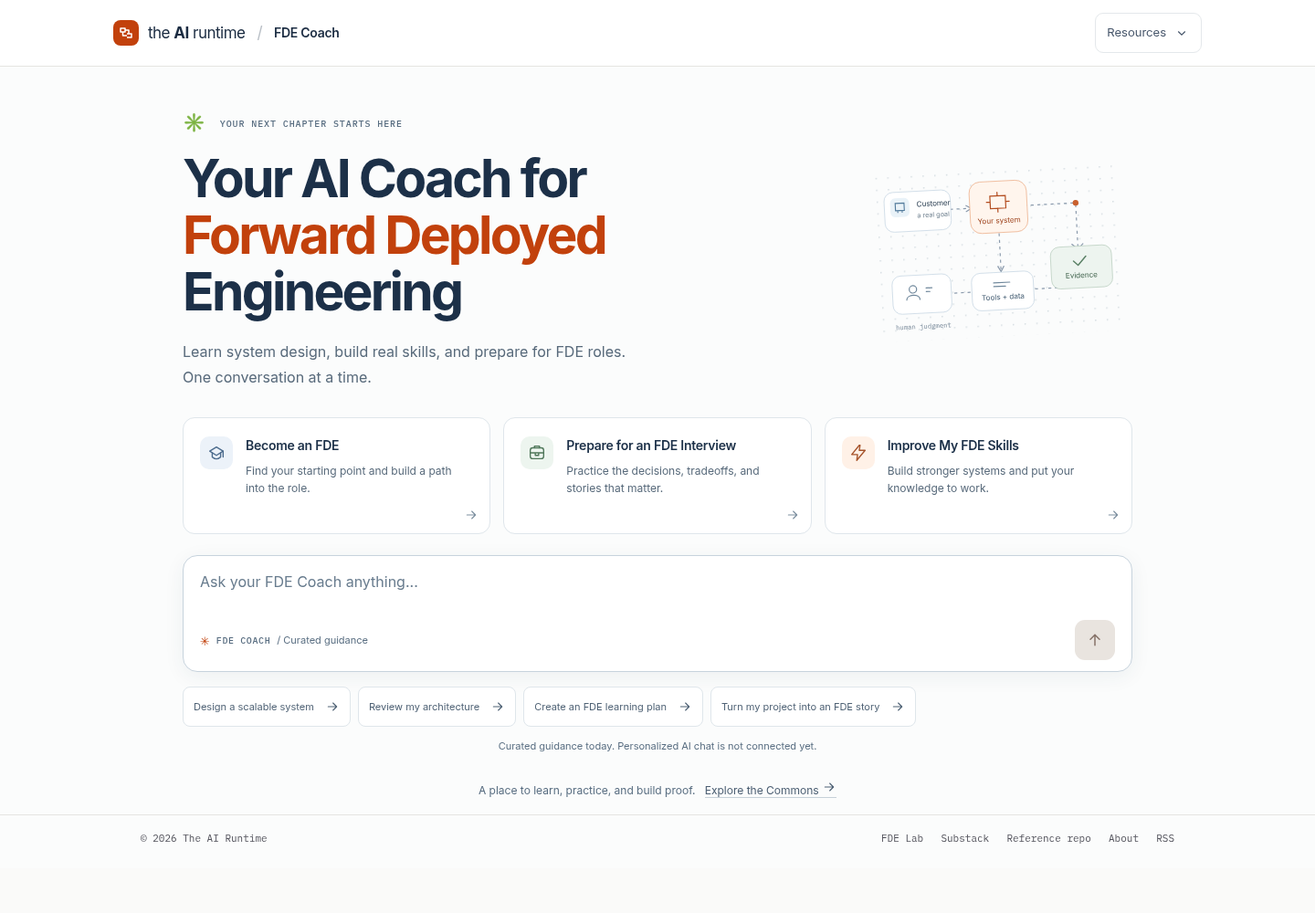
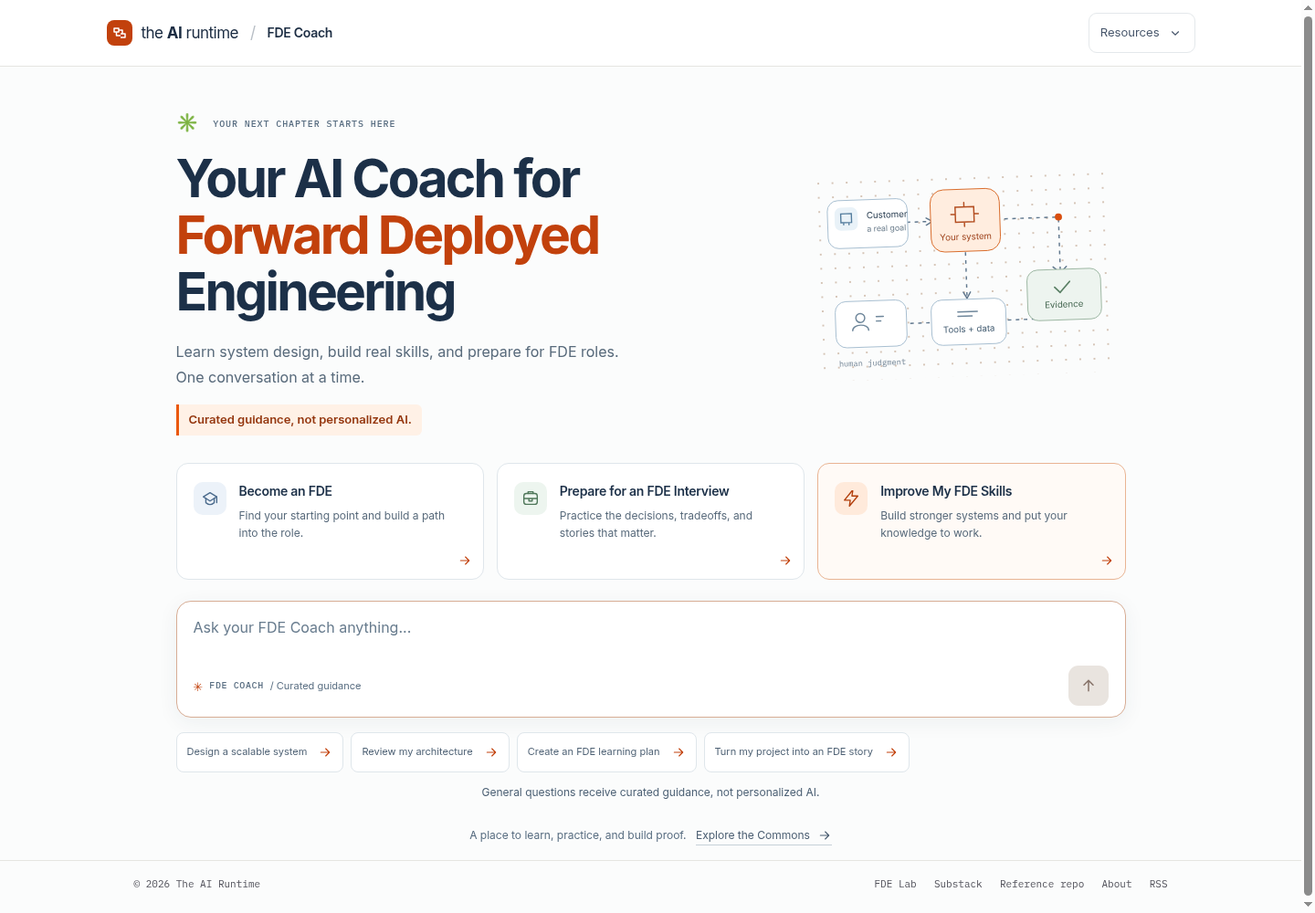
Polish Coach visuals, clarify curated guidance, and document security integration

diff --git a/learn/src/components/fde-coach/fde-coach.css b/learn/src/components/fde-coach/fde-coach.css
@@ -1,5 +1,5 @@
 /* Scoped to the approved Coach surface. Existing curriculum tokens stay intact. */
-.fde-coach{--ink:#1c3048;--muted:#586a7b;--rule:#dfe6eb;--orange:var(--accent,#c2410c);width:100%;max-width:1088px;margin:0 auto;padding:46px 24px 16px;color:var(--ink);font-size:15px;line-height:1.7}
+.fde-coach{--ink:#1c3048;--muted:#586a7b;--rule:#dfe6eb;--orange:#c2410c;width:100%;max-width:1088px;margin:0 auto;padding:46px 24px 16px;color:var(--ink);font-size:15px;line-height:1.7}
 .fde-coach button,.fde-coach textarea{font:inherit}
 .fde-coach button{cursor:pointer}
 .fde-coach button:disabled{cursor:not-allowed}
@@ -7,22 +7,22 @@
 .fde-coach a{color:var(--orange)}
 .fde-kicker{font-family:var(--font-mono);font-size:10px;letter-spacing:.09em;line-height:1.5;font-weight:500;margin:0;color:#586d81}
 .fde-spark{color:var(--orange);font-family:var(--font-body);font-size:20px;vertical-align:-2px;margin-right:8px}
-.fde-welcome{display:grid;grid-template-columns:minmax(0,1fr) 290px;align-items:center;gap:40px;margin-bottom:30px}
+.fde-welcome{display:grid;grid-template-columns:minmax(0,1fr) 350px;align-items:center;gap:28px;margin-bottom:30px}
 .fde-welcome h1{font-size:clamp(36px,4.2vw,57px);line-height:1.09;letter-spacing:-.048em;font-weight:700;margin:16px 0 20px;color:var(--ink);max-width:660px;text-wrap:initial}
 .fde-welcome h1 span{color:var(--orange);display:block}
 .fde-intro{font-size:16px;line-height:1.75;max-width:520px;margin:0;color:var(--muted)}
-.fde-illustration{width:100%;height:auto;max-width:340px;transform:rotate(-3deg);justify-self:end}
+.fde-illustration{width:100%;height:auto;max-width:360px;transform:rotate(-2deg);justify-self:end}
 .fde-starters{display:grid;grid-template-columns:repeat(3,minmax(0,1fr));gap:14px;margin-bottom:23px}
 .fde-starter{position:relative;display:grid;grid-template-columns:38px minmax(0,1fr);gap:12px;text-align:left;background:#fff;border:1px solid var(--rule);padding:20px 18px 18px;border-radius:13px;color:var(--ink);transition:border-color .16s,transform .16s,box-shadow .16s;min-height:128px}
-.fde-starter:hover{border-color:#c58c6e;transform:translateY(-2px);box-shadow:0 6px 18px #23374b09}
+.fde-starter:hover{border-color:#d66a32;transform:translateY(-2px);box-shadow:0 6px 18px #23374b09}
 .fde-starter__icon{height:36px;width:36px;display:grid;place-items:center;border-radius:10px;background:#ecf2f9;color:#4b6b8d}
 .fde-starter--green .fde-starter__icon{background:#edf5ef;color:#4f775a}
-.fde-starter--orange .fde-starter__icon{background:#fff1e7;color:#a6532b}
+.fde-starter--orange .fde-starter__icon{background:#ffeadb;color:#b23e0b}
 .fde-starter strong{display:block;color:var(--ink);font-size:14px;font-weight:600;line-height:1.45;letter-spacing:-.018em;padding-right:4px}
 .fde-starter__description{display:block;color:var(--muted);font-size:12px;line-height:1.6;margin-top:7px;padding-right:4px}
-.fde-starter__arrow{position:absolute;right:12px;bottom:12px;color:#7c8f9f;display:flex}
+.fde-starter__arrow{position:absolute;right:12px;bottom:12px;color:#c2410c;display:flex}
 .fde-compose-area{position:relative;min-width:0}
-.fde-composer{background:#fff;border:1px solid #c7d3dd;border-radius:16px;padding:16px 18px 12px;box-shadow:0 5px 22px #273e5310;transition:border-color .16s,box-shadow .16s}
+.fde-composer{background:#fff;border:1px solid #d7ad95;border-radius:16px;padding:16px 18px 12px;box-shadow:0 5px 22px #273e5310;transition:border-color .16s,box-shadow .16s}
 .fde-composer:focus-within{outline:2px solid var(--orange);outline-offset:2px;border-color:#c06c42;box-shadow:0 0 0 3px #c2410c0b,0 6px 22px #273e530a}
 .fde-composer textarea{width:100%;display:block;min-height:49px;max-height:160px;resize:none;overflow-y:auto;background:none;border:0;border-radius:0;color:var(--ink);padding:0;line-height:1.55;font-size:16px;outline:none;box-sizing:border-box}
 .fde-composer textarea:focus-visible{outline:none}
@@ -38,10 +38,10 @@
 .fde-prompts,.fde-followups{display:flex;flex-wrap:wrap;gap:8px;margin-top:16px}
 .fde-prompts button,.fde-followups button{border:1px solid var(--rule);background:#fff;border-radius:8px;min-height:36px;padding:8px 11px;display:inline-flex;align-items:center;gap:12px;color:#4f6275;font-size:11px;line-height:1.4;text-align:left;transition:background .15s,border-color .15s}
 .fde-prompts button:hover,.fde-followups button:hover{background:#fff6ef;border-color:#d4a78f;color:#8a3915}
-.fde-prompts button span{color:#7f91a1}
-.fde-help{text-align:center;color:#586d81;font-size:11px;line-height:1.5;margin:13px 0 0;overflow-wrap:anywhere}
+.fde-prompts button svg{color:var(--orange);flex:none}
+.fde-help{text-align:center;color:#4d6175;font-size:12px;line-height:1.5;margin:13px 0 0;overflow-wrap:anywhere}
 .fde-welcome__foot{font-size:12px;text-align:center;margin:28px 0 0;color:#586d81}
-.fde-welcome__foot a{margin-left:7px;color:#4b5e72;text-decoration:none;border-bottom:1px solid #c6d0d8}
+.fde-welcome__foot a{display:inline-flex;align-items:center;gap:8px;margin-left:7px;color:#4b5e72;text-decoration:none;border-bottom:1px solid #c6d0d8}
 .fde-sr-only{position:absolute;width:1px;height:1px;padding:0;margin:-1px;overflow:hidden;clip:rect(0,0,0,0);white-space:nowrap;border:0}
 /* A single scrolling transcript above a stable, safe-area-aware composer. */
 .fde-coach--active{height:var(--coach-height,calc(100dvh - 72px));padding-top:17px;padding-bottom:max(14px,env(safe-area-inset-bottom));display:grid;grid-template-rows:auto minmax(0,1fr) auto;min-height:0;max-width:920px}
@@ -73,7 +73,7 @@
 .fde-coach--active .fde-compose-area{padding-top:12px;border-top:1px solid var(--rule)}
 .fde-coach--active .fde-composer{padding:12px 15px 10px;border-radius:13px;box-shadow:0 2px 14px #263c4c06}
 .fde-coach--active .fde-composer textarea{min-height:38px}
-.fde-coach--active .fde-help{font-size:10px;margin-top:8px}
+.fde-coach--active .fde-help{font-size:12px;margin-top:8px}
 .fde-coach--active .fde-followups{margin-top:9px;gap:7px}
 .fde-followups button{min-height:34px;font-size:10px;padding:6px 9px}
 .fde-status{font:400 12px var(--font-body);margin:0 0 10px;color:#5b6c7e}
@@ -99,8 +99,8 @@
 .fde-completed{display:flex;align-items:center;justify-content:space-between;gap:10px;flex-wrap:wrap;font-size:12px;color:#4e6577}
 .fde-completed button{display:flex;align-items:center;gap:8px;min-height:44px;border:1px solid var(--rule);border-radius:8px;padding:8px 12px;background:#fff;color:#a03c13;font-size:12px}
 @media(max-width:900px){.fde-welcome{grid-template-columns:minmax(0,1fr) 210px;gap:15px}.fde-coach{padding-top:32px}.fde-starter{grid-template-columns:1fr;padding:16px}.fde-starter__icon{margin-bottom:2px}.fde-starter strong{font-size:13px}.fde-coach--active{padding-top:15px}}
-@media(max-width:620px){.fde-coach{padding:25px 16px 15px;font-size:14px}.fde-welcome{display:block;margin-bottom:23px}.fde-welcome h1{font-size:37px;max-width:440px;margin:14px 0 15px;letter-spacing:-.052em}.fde-illustration{display:none}.fde-kicker{font-size:9px}.fde-intro{font-size:14px;line-height:1.7;max-width:380px}.fde-starters{grid-template-columns:1fr;gap:9px;margin-bottom:18px}.fde-starter{grid-template-columns:32px minmax(0,1fr) 12px;min-height:72px;gap:12px;padding:12px 13px;align-items:center;border-radius:10px}.fde-starter__icon{width:32px;height:32px;border-radius:9px;margin:0}.fde-starter strong{font-size:13px;line-height:1.4}.fde-starter__description{font-size:11px;margin-top:3px;line-height:1.5}.fde-starter__arrow{position:static;align-self:center}.fde-composer{padding:13px 14px 10px;border-radius:12px}.fde-composer textarea{font-size:16px;min-height:45px}.fde-composer__mode{font-size:10px}.fde-composer__label{font-size:9px}.fde-prompts{gap:7px;margin-top:12px;display:grid;grid-template-columns:repeat(2,minmax(0,1fr))}.fde-prompts button{font-size:10px;padding:8px;gap:5px;justify-content:space-between;min-height:40px}.fde-help{font-size:10px;margin-top:10px}.fde-welcome__foot{font-size:11px;line-height:1.8;margin-top:20px}.fde-coach--active{padding:12px 13px max(9px,env(safe-area-inset-bottom));height:var(--coach-height,calc(100dvh - 64px))}.fde-context{gap:10px;padding-bottom:11px}.fde-context h1{font-size:12px;line-height:1.5}.fde-context .fde-kicker{font-size:8px}.fde-reset{padding:7px;min-width:40px;justify-content:center}.fde-reset span:last-child{display:none}.fde-transcript{padding-top:18px;scrollbar-gutter:auto}.fde-turn{grid-template-columns:26px minmax(0,1fr);gap:9px;margin-bottom:23px}.fde-turn__avatar{width:26px;height:26px;border-radius:8px}.fde-turn__avatar svg{width:18px;height:18px}.fde-turn__who{font-size:11px!important;gap:7px}.fde-turn__who span{font-size:8px}.fde-turn__body h2{font-size:18px}.fde-turn__body>p:not(.fde-turn__who),.fde-lesson-part>p{font-size:13px;line-height:1.8;margin-bottom:12px}.fde-turn--learner .fde-message-text{padding:9px 12px}.fde-resource-list a{font-size:12px}.fde-resource-list li>span{font-size:11px}.fde-lesson-link{font-size:11px!important;padding:10px;gap:8px}.fde-coach--active .fde-compose-area{padding-top:9px}.fde-coach--active .fde-composer{padding:10px 12px 8px}.fde-coach--active .fde-followups{flex-wrap:nowrap;overflow-x:auto;padding:2px 1px 4px}.fde-followups button{white-space:nowrap;flex-shrink:0;font-size:10px;min-height:36px}.fde-summary{padding:16px}.fde-summary h2{font-size:21px}}
-@media(max-width:370px){.fde-welcome h1{font-size:34px}.fde-intro{font-size:13px}.fde-coach{padding-left:14px;padding-right:14px}.fde-starter strong{font-size:12px}.fde-starter__description{font-size:10.5px}.fde-composer__mode{font-size:9px}}
+@media(max-width:620px){.fde-coach{padding:25px 16px 15px;font-size:14px}.fde-welcome{display:block;margin-bottom:23px}.fde-welcome h1{font-size:37px;max-width:440px;margin:14px 0 15px;letter-spacing:-.052em}.fde-illustration{display:none}.fde-kicker{font-size:9px}.fde-intro{font-size:15px;line-height:1.7;max-width:380px}.fde-starters{grid-template-columns:1fr;gap:9px;margin-bottom:18px}.fde-starter{grid-template-columns:32px minmax(0,1fr) 12px;min-height:72px;gap:12px;padding:12px 13px;align-items:center;border-radius:10px}.fde-starter__icon{width:32px;height:32px;border-radius:9px;margin:0}.fde-starter strong{font-size:14px;line-height:1.4}.fde-starter__description{font-size:12.5px;margin-top:3px;line-height:1.5}.fde-starter__arrow{position:static;align-self:center}.fde-composer{padding:13px 14px 10px;border-radius:12px}.fde-composer textarea{font-size:16px;min-height:45px}.fde-composer__mode{font-size:10px}.fde-composer__label{font-size:9px}.fde-prompts{gap:7px;margin-top:12px;display:grid;grid-template-columns:repeat(2,minmax(0,1fr))}.fde-prompts button{font-size:12px;padding:8px;gap:5px;justify-content:space-between;min-height:40px}.fde-help{font-size:13px;margin-top:10px}.fde-welcome__foot{font-size:11px;line-height:1.8;margin-top:20px}.fde-coach--active{padding:12px 13px max(9px,env(safe-area-inset-bottom));height:var(--coach-height,calc(100dvh - 64px))}.fde-context{gap:10px;padding-bottom:11px}.fde-context h1{font-size:14px;line-height:1.5}.fde-context .fde-kicker{font-size:8px}.fde-reset{padding:7px;min-width:44px;justify-content:center}.fde-reset span:last-child{display:none}.fde-transcript{padding-top:18px;scrollbar-gutter:auto}.fde-turn{grid-template-columns:26px minmax(0,1fr);gap:9px;margin-bottom:23px}.fde-turn__avatar{width:26px;height:26px;border-radius:8px}.fde-turn__avatar svg{width:18px;height:18px}.fde-turn__who{font-size:13px!important;gap:7px}.fde-turn__who span{font-size:10px}.fde-turn__body h2{font-size:18px}.fde-turn__body>p:not(.fde-turn__who),.fde-lesson-part>p{font-size:15px;line-height:1.8;margin-bottom:12px}.fde-turn--learner .fde-message-text{padding:9px 12px}.fde-resource-list a{font-size:14px}.fde-resource-list li>span{font-size:13px}.fde-lesson-link{font-size:13px!important;padding:10px;gap:8px}.fde-coach--active .fde-compose-area{padding-top:9px}.fde-coach--active .fde-composer{padding:10px 12px 8px}.fde-coach--active .fde-followups{flex-wrap:nowrap;overflow-x:auto;padding:2px 1px 4px}.fde-followups button{white-space:nowrap;flex-shrink:0;font-size:12px;min-height:36px}.fde-summary{padding:16px}.fde-summary h2{font-size:21px}}
+@media(max-width:370px){.fde-welcome h1{font-size:34px}.fde-intro{font-size:15px}.fde-coach{padding-left:14px;padding-right:14px}.fde-starter strong{font-size:14px}.fde-starter__description{font-size:12.5px}.fde-composer__mode{font-size:9px}}
 @media(prefers-reduced-motion:no-preference){.fde-coach--active .fde-context{animation:fde-enter .24s ease-out}.fde-turn{animation:fde-enter .22s ease-out}@keyframes fde-enter{from{opacity:0;transform:translateY(6px)}to{opacity:1;transform:translateY(0)}}}
 @media(prefers-reduced-motion:reduce){.fde-coach *{scroll-behavior:auto!important;animation:none!important;transition:none!important}}
 
@@ -109,3 +109,9 @@
 .fde-send{min-width:44px}
 .fde-resource-list a{min-height:32px}
 @media(max-width:620px){.fde-resource-list a{min-height:44px}.fde-coach--active .fde-followups{display:grid;grid-template-columns:repeat(2,minmax(0,1fr));overflow:visible;flex-wrap:wrap}.fde-followups button{white-space:normal;min-height:44px;justify-content:space-between}.fde-prompts button{min-height:44px}}
+
+/* Keep the capability boundary visible before any welcome-screen action. */
+.fde-mode-notice{display:inline-block;margin:16px 0 0;padding:7px 11px;border-left:3px solid #ea580c;border-radius:0 6px 6px 0;background:#fff1e6;color:#94360e;font-size:13px;line-height:1.5;font-weight:600}
+.fde-starter--orange{border-color:#e9b493;background:#fffaf6}
+.fde-transcript:focus-visible{outline:2px solid var(--orange);outline-offset:-2px}
+@media(max-width:620px){.fde-mode-notice{font-size:12.5px;margin-top:12px;padding:6px 9px}.fde-coach--active .fde-help{font-size:13px}.fde-error,.fde-disclosure{font-size:13px}.fde-error button,.fde-error a{min-height:44px;display:inline-flex;align-items:center}.fde-welcome{margin-bottom:18px}.fde-coach--welcome{padding-top:20px}}

diff --git a/learn/src/components/fde-coach/FdeCoach.tsx b/learn/src/components/fde-coach/FdeCoach.tsx
@@ -140,7 +140,7 @@ export default function FdeCoach() {
     {!active ? <>
       <div className="fde-welcome"><div className="fde-welcome__copy"><p className="fde-kicker"><span className="fde-spark" aria-hidden="true">✳</span> YOUR NEXT CHAPTER STARTS HERE</p>
         <h1>Your AI Coach for <span>Forward Deployed</span> Engineering</h1>
-        <p className="fde-intro">Learn system design, build real skills, and prepare for FDE roles. One conversation at a time.</p></div><SystemIllustration/></div>
+        <p className="fde-intro">Learn system design, build real skills, and prepare for FDE roles. One conversation at a time.</p><p className="fde-mode-notice" id="fde-guidance-notice">Curated guidance, not personalized AI.</p></div><SystemIllustration/></div>
       <div className="fde-starters" aria-label="Choose your starting point">{starters.map(item => <button type="button" className={`fde-starter fde-starter--${item.tone}`} key={item.id} onClick={() => choose(item.id)}>
         <span className="fde-starter__icon"><GoalIcon kind={item.id}/></span><span><strong>{item.title}</strong><span className="fde-starter__description">{item.description}</span></span><span className="fde-starter__arrow"><Arrow small/></span></button>)}</div>
     </> : <>
@@ -168,7 +168,7 @@ export default function FdeCoach() {
       {scripted && mode === "lesson" && !done ? <p className="fde-disclosure">The written lesson is active. Replies follow the authored material rather than your exact wording.</p> : null}
       {!done ? <form className="fde-composer" onSubmit={event => { event.preventDefault(); submit(); }}>
         <label className="fde-sr-only" htmlFor="fde-message">{mode === "lesson" ? "Your answer to the lesson" : "Ask your FDE Coach"}</label>
-        <textarea id="fde-message" ref={input} rows={2} maxLength={2000} value={draft} readOnly={busy || Boolean(pending)} aria-describedby={error ? "fde-input-help fde-request-error" : "fde-input-help"}
+        <textarea id="fde-message" ref={input} rows={2} maxLength={2000} value={draft} readOnly={busy || Boolean(pending)} aria-describedby={["fde-input-help", !active && "fde-guidance-notice", error && "fde-request-error"].filter(Boolean).join(" ")}
           placeholder={mode === "lesson" ? "Answer the current lesson question..." : "Ask your FDE Coach anything..."}
           onChange={event => setDraft(event.currentTarget.value)} onCompositionStart={() => { composing.current = true; }} onCompositionEnd={() => { composing.current = false; }}
           onKeyDown={event => { if (event.key === "Enter" && !event.shiftKey && !composing.current && !event.nativeEvent.isComposing && event.nativeEvent.keyCode !== 229) { event.preventDefault(); submit(); } }}/>
@@ -177,7 +177,7 @@ export default function FdeCoach() {
       </form> : <div className="fde-completed"><span>Guided lesson complete. Your recap is above.</span><button type="button" onClick={reset}>Explore another direction <Arrow small/></button></div>}
       {!active ? <div className="fde-prompts" aria-label="Try a question">{prompts.map(prompt => <button key={prompt.id} type="button" onClick={() => choose(prompt.id)}>{prompt.title}<Arrow small/></button>)}</div>
         : mode === "guide" && last ? <div className="fde-followups" aria-label="Suggested next steps">{last.followups.map(goal => <button key={goal} type="button" onClick={() => choose(goal)}>{goalLabel(goal)} <Arrow small/></button>)}</div> : null}
-      <p className="fde-help" id="fde-input-help">{mode === "lesson" ? "Use fictional or non-sensitive examples. Enter sends; Shift+Enter adds a line." : "Curated guidance today. Personalized AI chat is not connected yet."}{draft.length > 1800 ? ` ${draft.length}/2000 characters.` : ""}</p>
+      <p className="fde-help" id="fde-input-help">{mode === "lesson" ? "Use fictional or non-sensitive examples. Enter sends; Shift+Enter adds a line." : "General questions receive curated guidance, not personalized AI."}{draft.length > 1800 ? ` ${draft.length}/2000 characters.` : ""}</p>
     </div>
     {!active ? <p className="fde-welcome__foot">A place to learn, practice, and build proof. <a href="/commons/">Explore the Commons <Arrow small/></a></p> : null}
   </section>;

diff --git a/learn/src/components/fde-coach/SystemIllustration.tsx b/learn/src/components/fde-coach/SystemIllustration.tsx
@@ -1,25 +1,25 @@
 /** Original architecture sketch, drawn for this interface. Decorative teaching motif. */
 export default function SystemIllustration() {
   return <svg className="fde-illustration" viewBox="0 0 360 244" fill="none" aria-hidden="true" focusable="false">
-    <defs><pattern id="coach-dots" width="16" height="16" patternUnits="userSpaceOnUse"><circle cx="1" cy="1" r="1" fill="#cdd6dc"/></pattern></defs>
+    <defs><pattern id="coach-dots" width="16" height="16" patternUnits="userSpaceOnUse"><circle cx="1" cy="1" r="1" fill="#c8b29f"/></pattern></defs>
     <rect x="12" y="4" width="336" height="236" rx="24" fill="url(#coach-dots)"/>
-    <path d="M70 64h74M216 64h70v63M180 91v61M70 178h74M216 178h70v-27" stroke="#8b9bad" strokeWidth="1.5" strokeDasharray="4 5"/>
-    <path d="m137 60 7 4-7 4m39 77 4 7 4-7m94-25 8 7 7-7" stroke="#8b9bad" strokeWidth="1.5" strokeLinecap="round" strokeLinejoin="round"/>
-    <rect x="26" y="37" width="90" height="54" rx="12" fill="#fff" stroke="#cad8e4"/><rect x="34" y="45" width="26" height="26" rx="7" fill="#e9f2f8"/>
+    <path d="M70 64h74M216 64h70v63M180 91v61M70 178h74M216 178h70v-27" stroke="#61788e" strokeWidth="1.5" strokeDasharray="4 5"/>
+    <path d="m137 60 7 4-7 4m39 77 4 7 4-7m94-25 8 7 7-7" stroke="#61788e" strokeWidth="1.5" strokeLinecap="round" strokeLinejoin="round"/>
+    <rect x="26" y="37" width="90" height="54" rx="12" fill="#fff" stroke="#a7bed0"/><rect x="34" y="45" width="26" height="26" rx="7" fill="#e9f2f8"/>
     <path d="M41 52h12v10H41zm3 10v3m6-3v3" stroke="#527b9c" strokeWidth="1.4"/>
     <text x="70" y="58" fill="#24394d" fontSize="10" fontFamily="Inter, sans-serif">Customer</text><text x="70" y="73" fill="#6a7c8b" fontSize="9" fontFamily="Inter, sans-serif">a real goal</text>
-    <rect x="142" y="29" width="78" height="70" rx="15" fill="#fff5ed" stroke="#edb38f"/>
+    <rect x="142" y="29" width="78" height="70" rx="15" fill="#ffeddf" stroke="#d96b2a"/>
     <path d="M170 49h21v17h-21zm-5 8h5m21 0h5m-16-13v5m0 17v5" stroke="#b34d20" strokeWidth="1.5" strokeLinecap="round"/>
     <text x="181" y="86" fill="#9e431d" textAnchor="middle" fontSize="10" fontFamily="Inter, sans-serif">Your system</text>
-    <rect x="248" y="123" width="83" height="57" rx="12" fill="#edf4ef" stroke="#bdd1c2"/>
+    <rect x="248" y="123" width="83" height="57" rx="12" fill="#edf4ef" stroke="#9cb6a2"/>
     <path d="m279 143 6 6 11-12" stroke="#5a8065" strokeWidth="1.8" strokeLinecap="round" strokeLinejoin="round"/>
     <text x="289" y="166" fill="#446650" textAnchor="middle" fontSize="10" fontFamily="Inter, sans-serif">Evidence</text>
-    <rect x="139" y="153" width="84" height="51" rx="12" fill="#fff" stroke="#cad8e4"/>
+    <rect x="139" y="153" width="84" height="51" rx="12" fill="#fff" stroke="#a7bed0"/>
     <path d="M169 167h22m-22 5h16" stroke="#6f879b" strokeWidth="1.5" strokeLinecap="round"/>
     <text x="181" y="190" fill="#445d72" textAnchor="middle" fontSize="10" fontFamily="Inter, sans-serif">Tools + data</text>
-    <rect x="31" y="151" width="80" height="52" rx="12" fill="#fff" stroke="#cad8e4"/>
+    <rect x="31" y="151" width="80" height="52" rx="12" fill="#fff" stroke="#a7bed0"/>
     <circle cx="59" cy="170" r="5" stroke="#6f879b" strokeWidth="1.5"/><path d="M50 184c0-8 18-8 18 0m9-15h8m-8 5h5" stroke="#6f879b" strokeWidth="1.5" strokeLinecap="round"/>
     <text x="71" y="224" fill="#718394" textAnchor="middle" fontSize="9" fontFamily="IBM Plex Mono, monospace">human judgment</text>
-    <circle cx="286" cy="64" r="4" fill="#c9602d"/>
+    <circle cx="286" cy="64" r="4" fill="#d94e0e"/>
   </svg>;
 }

diff --git a/docs/ui/151/SECURITY_INTEGRATION.md b/docs/ui/151/SECURITY_INTEGRATION.md
@@ -1,0 +1,73 @@
+# Coach client integration with draft PR #150
+
+Reviewed against PR #150 head `6adbadc1c635efc1947be74f2058c6581af3a8ec`. This is an integration specification, not an implementation or a deployment approval. The UI transport and security backend remain on their separate branches.
+
+## Current compatibility gap
+
+PR #152's `learn/src/components/coach/api.ts` sends only `content-type` for POSTs. `FdeCoach.tsx` retains failed answer bodies and tokens for manual retry, but neither the transport nor the component supplies a request key or private start scope. Its 20-second timer covers `fetch()` until response headers, not the subsequent JSON body read. Its generation fence prevents an abandoned response from changing a new conversation, but cannot cancel server execution.
+
+PR #150's Coach transport supplies stable `Idempotency-Key` and `X-Session-Client` headers using in-memory state, but does not provide #152's AbortSignal/timeout support. Both PRs change the same API file. Neither file should win a merge conflict wholesale. The new UI is not compatible with the hardened POST contract unchanged; it would receive validation failures. No claim is made that manual retry on main has server-side idempotency.
+
+General-question guidance stays entirely local and should remain independent of either API. Do not add a model endpoint, remove server admission, substitute unsigned state, or relax header validation to make the UI work.
+
+## Required request contract
+
+| Operation | Payload and authority | Required client changes |
+| --- | --- | --- |
+| `GET /api/coach/health` | Existing coarse configuration status. No credentials in query strings. | Check `tokenConfigured`, `countersConfigured`, and `securityConfigured` when the learner explicitly starts the hardened lesson; do not add requests to local starter actions. These are configuration hints, not proof that admission will succeed. Keep courses available when health or admission is unavailable. |
+| `POST /api/coach/start` | Existing `{}` default lesson, or validated `lessonId`. | Supply a cryptographically random `Idempotency-Key` (16-128 letters, digits, `_`, `-`) and independent private `X-Session-Client` (32-128 of the same characters). PR #150 uses one UUID for the key and two concatenated UUIDs for the scope. Retain both and the exact payload for retry. |
+| `POST /api/coach/message` | Signed token with server session ID/revision, answer, and original `stageTurns`. Treat token as opaque bearer authority. | Supply a fresh key for a new logical answer. Retain the key, token, and exact serialized body until a valid response is applied or the learner explicitly abandons the session. A retry uses the same values, including JSON property order. |
+
+Start replay identity includes the application, private client scope, and request key. Different clients using the same key must receive different credentials; a retry from the same client may change IP address. An IP address, a shared static key, or a user-visible session ID is not a client scope. The private scope and key together are a bearer start receipt, not authentication.
+
+Keep scope, keys, signed tokens, and pending bodies in page memory. Do not put them in URLs, logs, analytics, shared browser storage, or visible error messages. No new login, cookie, secret, service, or infrastructure is needed.
+
+## Pending operation lifecycle
+
+1. Capture one immutable pending operation before sending it: action, serialized payload, key, private start scope where applicable, and UI generation. Generate the identity once, outside any per-attempt fetch helper.
+2. Disable concurrent answer submission and input editing while that operation is unresolved. Keep the existing learner bubble on manual retry rather than appending another one.
+3. Preserve identity through connection failures, client aborts, timeouts, unreadable responses, and recoverable 409/503 responses. Do not generate a replacement key to get past a pending operation or stale revision. The server fingerprints parsed JSON with property order preserved.
+4. Validate a successful response before retiring its pending identity. Apply its next token and stage once to the matching UI generation. A 2xx response with missing/unreadable token or lesson data is not proof that the operation failed or that a fresh key is safe. PR #150's API helper currently discards keys on HTTP success before component validation; reconcile this behavior during integration.
+5. A successful new answer gets a new key. An exact retry gets the old key. A canceled browser request can still finish on the server and spend its reserved usage.
+6. Explicit New chat/restart must abandon the old UI generation and use a fresh start operation. Clear or replace the abandoned pending start identity and private scope deliberately. Simply copying #150's module-level pending map can otherwise replay an old unresolved `{}` start after #152 resets the transcript. Do not silently convert an uncertain request into a new start. Explain that an abandoned session's work/quota may remain spent.
+7. Losing in-memory credentials through reload can prevent replay recovery. Do not invent cross-tab history, recover sessions from public IDs, or adopt legacy tokens.
+
+## Timeout and failure handling
+
+Keep model execution outside the client and Durable Object. The server reservation is 120 seconds, with no renewal or takeover; the client cannot extend it. A 20-second UI timeout is a responsiveness choice, not an execution deadline or quota refund. During integration, bound the whole response lifecycle, including JSON body reading/validation, and combine timeout with the existing AbortSignal and generation fence. Do not re-enable the composer for a new answer while a timed-out operation is unresolved.
+
+Manual exact retries may recover a saved result or receive a pending response. Avoid immediate automatic retry loops; they create traffic without granting execution. A retry after the lease can require restart, even if the original provider eventually completes. Preserve pending metadata rather than evicting an unresolved operation from a generic request cache.
+
+| Result | Client handling to implement |
+| --- | --- |
+| Valid committed/replayed response | Apply the saved response once. Advance only to its signed next token. |
+| 400/413 validation rejection | Show the coarse validation error. Only a definite pre-admission rejection permits correcting a start payload as a new logical operation. Never mutate an uncertain retry. |
+| 403 invalid/expired authority | Stop mutation, retain written learning links, and offer explicit restart. No unsigned fallback. |
+| 409 pending or recoverable original request | Keep the exact original key/body/scope for deliberate retry. Do not submit a different answer or fresh key. |
+| 409 stale revision, changed payload, uncertain outcome, or expired reservation | Do not infer success or bypass the block. Offer explicit restart when the server requires it. The draft exposes coarse text, not stable machine error codes; status 409 alone is insufficient to classify recovery. |
+| 429 session/shared/start usage limit | Explain that the limit was reached. Do not rotate scope/key or automatically start another session to evade it. |
+| 503 unavailable enforcement or saved KV result | Keep the operation identity if one was sent. Retry only the same request where appropriate. Static/curated learning remains available; the client must never invoke AI directly. |
+| Timeout, abort, lost response, or malformed 2xx | Treat the server outcome as unknown. Preserve the original identity and offer safe exact retry or explicit abandonment. Never display completion solely from HTTP success. |
+
+The server enforces revisions, deadlines, quotas, attempt accounting, and replay rules. Client controls are usability and recovery aids, not substitutes for those guarantees.
+
+## Integration verification required before combining the PRs
+
+- Actual hardened handler accepts the correct headers and rejects missing/invalid ones without charging a start.
+- Two isolated clients with identical key/body/IP receive different credentials; each exact retry recovers only its own start, including after an IP change.
+- Simultaneous clicks send one logical operation; duplicate wire requests use one identity. Same-key changed payload is rejected. A stale token cannot advance state.
+- Lost start/message responses, delayed response bodies, 20-second timeouts, external aborts, malformed 2xx, pending 409, and saved-result 503 retain the original body/key/scope. UI applies a recovered result once.
+- New chat during a pending start or answer cannot replay that session into the new transcript. Its late response is ignored; restart is explicit and uses fresh private metadata.
+- A request crossing the 120-second lease or session expiry stops safely. New keys cannot bypass the server block. Missing enforcement preserves curated guidance and course links, without an AI call.
+- Validate the combined transport against PR #150's real SQLite-backed concurrency/failure tests, not only fetch stubs or the main-branch written-lesson harness used for #152.
+- Gym/report code remains unchanged by #152. Preserve #150's separate at-most-once report slot and explicit provider-acceptance status; uncertain delivery must never become a success message.
+
+## Reviewed sources
+
+Pinned to the reviewed security commit:
+
+- [Coach transport](https://github.com/ogkranthi/theairuntime/blob/6adbadc1c635efc1947be74f2058c6581af3a8ec/learn/src/components/coach/api.ts)
+- [Admission boundary and header validation](https://github.com/ogkranthi/theairuntime/blob/6adbadc1c635efc1947be74f2058c6581af3a8ec/src/security/boundary.ts)
+- [Coordinator revisions, leases, and replay](https://github.com/ogkranthi/theairuntime/blob/6adbadc1c635efc1947be74f2058c6581af3a8ec/src/security/coordinator.ts)
+- [Security runbook](https://github.com/ogkranthi/theairuntime/blob/6adbadc1c635efc1947be74f2058c6581af3a8ec/docs/security/COACH_GYM_HARDENING.md)
+- [Client retry regression tests](https://github.com/ogkranthi/theairuntime/blob/6adbadc1c635efc1947be74f2058c6581af3a8ec/src/security/client-retry.test.ts)

diff --git a/docs/ui/151/README.md b/docs/ui/151/README.md
@@ -4,6 +4,12 @@ Branch: `feat/chat-first-fde-coach`, based on main `3976ef2b02247cda10fd1ef07c7b
 
 The welcome screen and conversation share one React island in the existing Learn Astro site. There are exactly three starter actions, a single composer, an original architecture SVG, and a compact Resources menu. The original Commons homepage is preserved byte for byte at `/commons/`. Existing courses, paths, assessments, Gym, diagrams, and continuation URLs remain available.
 
+## Targeted polish review
+
+Orange card, composer, and arrow accents are stronger without changing shared brand tokens. The original desktop system-design illustration is larger with clearer connectors and node outlines. Mobile introduction, starter descriptions, conversation text, resource links, and capability disclosure use larger type. A visible notice before the three starters says **Curated guidance, not personalized AI.** The composer has an accessible description of that limitation, and the same boundary remains visible during general conversation.
+
+The existing learning routes, content, API transport, backend, and infrastructure are unchanged by this polish. No security code was copied from #150.
+
 ## Screenshots
 
 | View | Welcome | Conversation |
@@ -18,7 +24,7 @@ These are actual Chromium captures of built pages, with authored resource guidan
 - The three starters, four quick prompts, and free-text topic routing show clearly labeled, authored guidance and links to existing learning content. They make no API calls.
 - Personalized chat, architecture analysis, uploads, personal learning plans, generated project rewrites, history, and persistent progress are not implemented or simulated.
 - Only explicit selection of the guided lesson, or `/coach/?lesson=agent-system-design`, uses the existing `/api/coach/health`, `/start`, and `/message` protocol. Authored fallback is labeled as a written lesson. All existing principles, six stages, recap, design summary, and continuation link are rendered.
-- Client requests time out after 20 seconds, never retry automatically, and can be canceled by starting a new conversation. A manual retry preserves the original token, answer, and context without adding a second learner turn. Server guarantees remain those of main; PR #150 is a separate dependency for secure AI expansion. Its changes are not included here. Reconcile the client API contract when that PR lands.
+- Client requests time out after 20 seconds, never retry automatically, and can be canceled by starting a new conversation. A manual retry preserves the original token, answer, and context without adding a second learner turn. Server guarantees remain those of main; PR #150 is a separate dependency for secure AI expansion. Its changes are not included here. The current transport is not compatible with #150 unchanged. See the [reviewed security integration specification](SECURITY_INTEGRATION.md) for required request keys, private client scopes, whole-response timeouts, unresolved retry identity, restart behavior, and integration tests. Those changes remain unimplemented here.
 - Conversations live only in component memory. No local history, analytics events, third-party requests, infrastructure, new AI endpoints, or production changes were added.
 
 ## Validation
@@ -30,12 +36,14 @@ Passed:
 - `npm run check --prefix learn`: 0 errors, 0 warnings, 4 existing hints.
 - `npm run build`: root site, Pagefind, and Learn site, 42 root pages and 148 Learn pages. Existing large-chunk warning remains.
 - `npx --yes wrangler@4.160.1 deploy --dry-run --outdir /tmp/air-ui151-worker`: Worker bundle only, exited without deployment. Existing configured binding names were inspected, not contacted or changed.
-- `node scripts/test-fde-coach-ui.mjs`: 18 browser checks, no JavaScript exceptions or external requests. See [machine-readable results](browser-checks.json).
+- `node scripts/test-fde-coach-ui.mjs`: 26 browser checks, no JavaScript exceptions or external requests. See [machine-readable results](browser-checks.json).
 - `git diff --check`.
+
+The polish adds visible pre-action capability disclosure, accessible textbox descriptions, readable mobile text, 44px chat controls, a larger desktop illustration, keyboard-only starter activation and transcript focus, text contrast checks, and desktop reflow at a 720px CSS viewport (equivalent to 200-percent zoom on a 1440px viewport). This is viewport-based reflow coverage, not a physical-browser zoom certification.
 
 Browser coverage includes exact 360/390/768/1440 viewport widths, no horizontal overflow, all starters and quick prompts, resource URLs, visible composer, menu Escape and focus return, IME-safe Enter, Shift+Enter, textarea growth, resized visual viewport, real local lesson protocol with no AI binding, loading, failed response, exact manual retry, complete authored lesson, reduced motion, and meaningful no-JavaScript links. The script serves built assets and the actual existing Coach handler locally, using a synthetic signing secret only.
 
-Broader repository check limitation: plain root `npx astro check` includes nested generated Learn bundles and exhausted the default Node heap. A source-only root check, excluding generated output and dependency directories with a temporary tsconfig, completed with 309 existing errors. The same check on clean main produced exactly the same 309 diagnostic locations, codes, and messages; there were no feature-only diagnostics. These cross-project collection/type issues are outside this UI change. The scoped Learn check and Worker check pass.
+Broader repository check limitation: the earlier plain root `npx astro check` included nested generated Learn bundles and exhausted the default Node heap. The current source-only root check, excluding generated output and dependency directories with a temporary tsconfig, completed with 308 existing errors. The same check on clean main produced exactly the same 308 diagnostic locations, codes, and messages; there were no feature-only diagnostics. These cross-project collection/type issues are outside this UI change. The scoped Learn check and Worker check pass.
 
 Physical iOS/Android keyboards, VoiceOver/TalkBack, and Safari have not been tested. Chromium visual-viewport resizing is coverage for layout behavior, not physical-device certification. AI model execution and real Cloudflare admission are deliberately outside these local UI tests.
 
